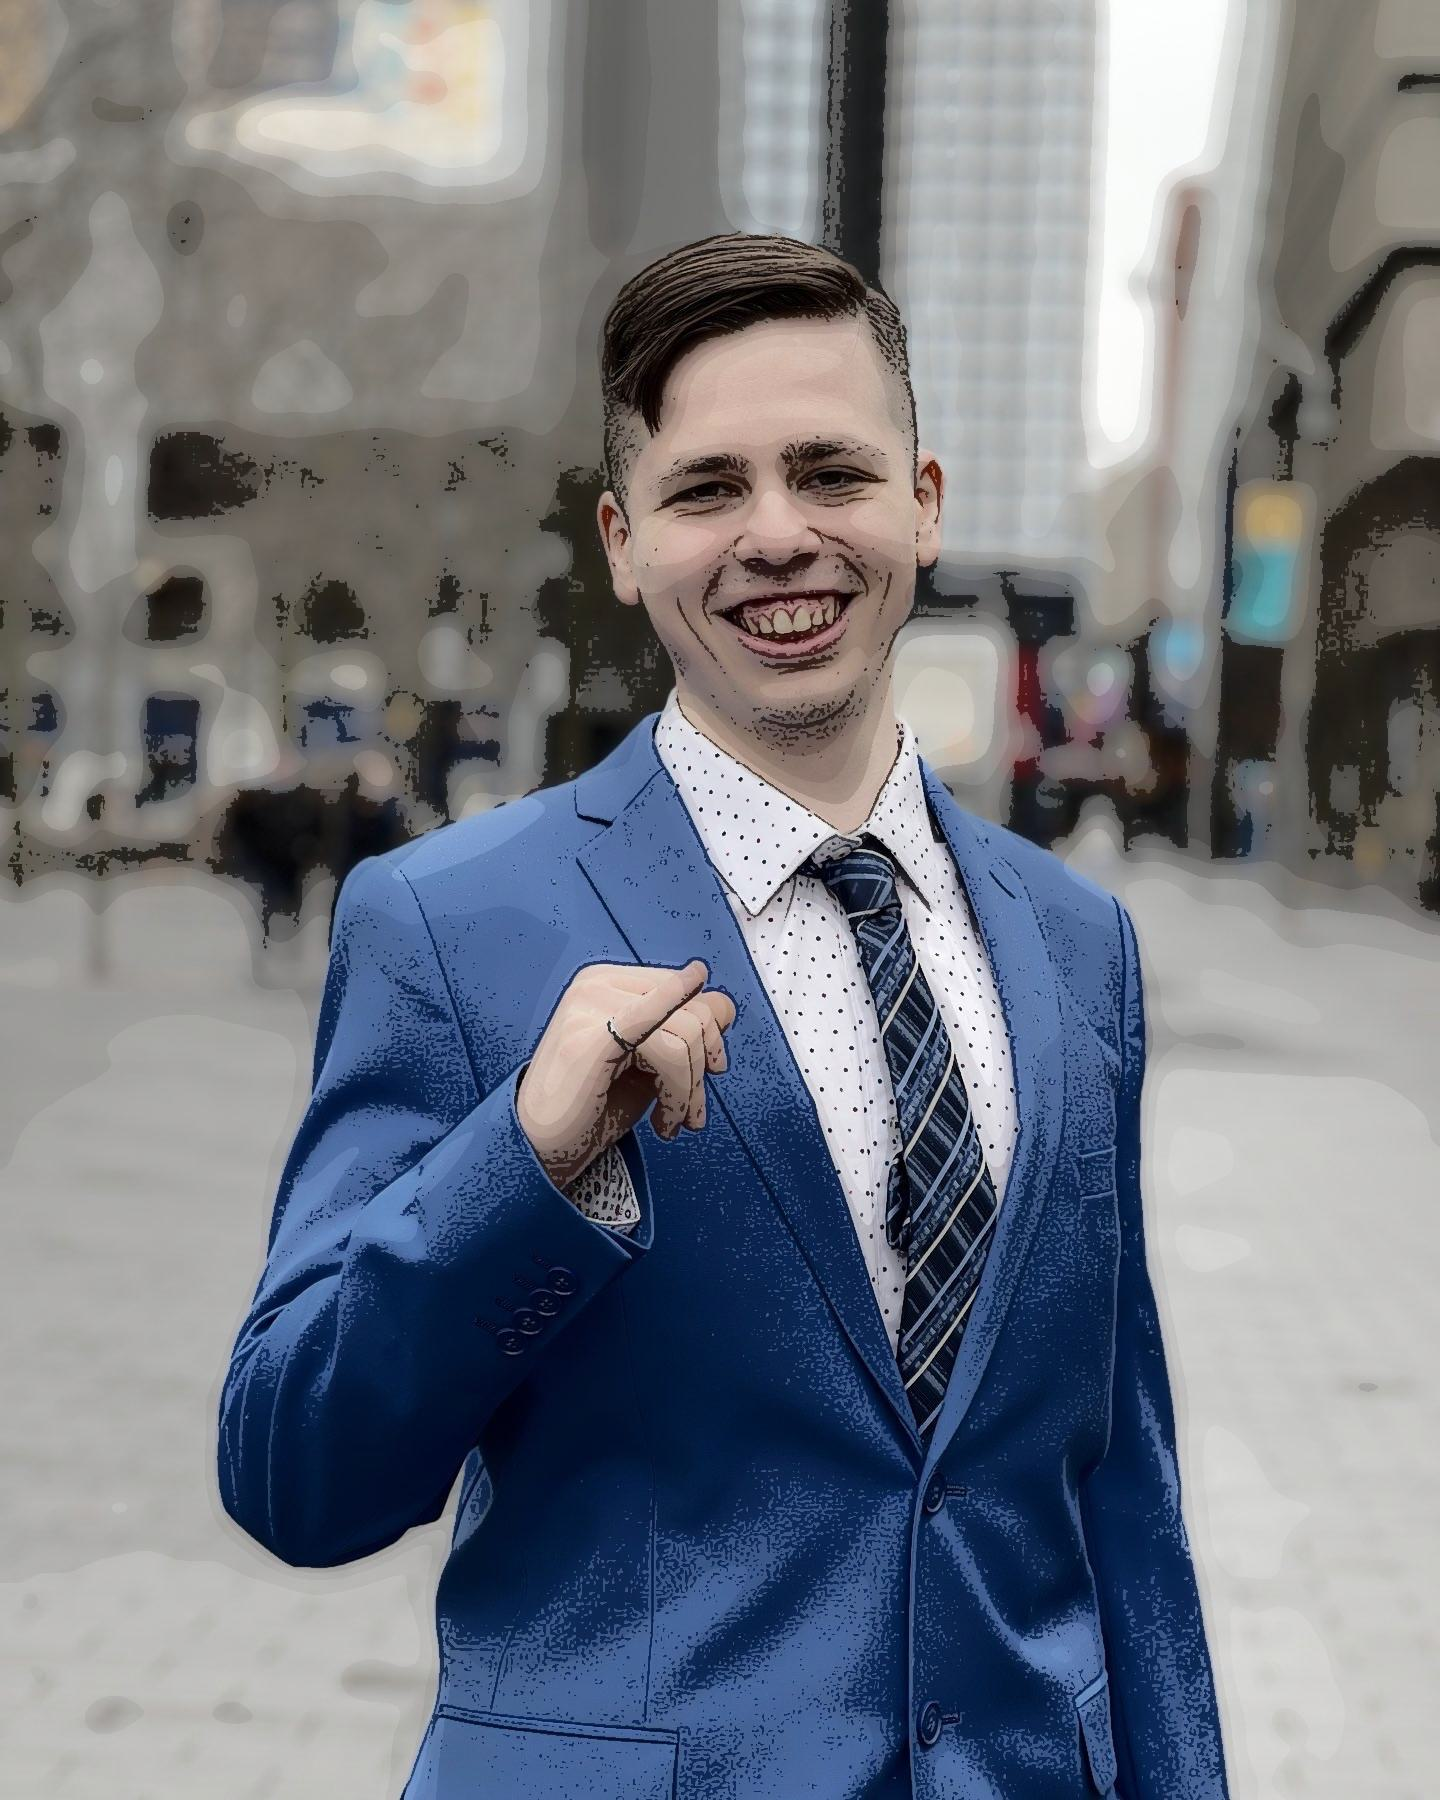
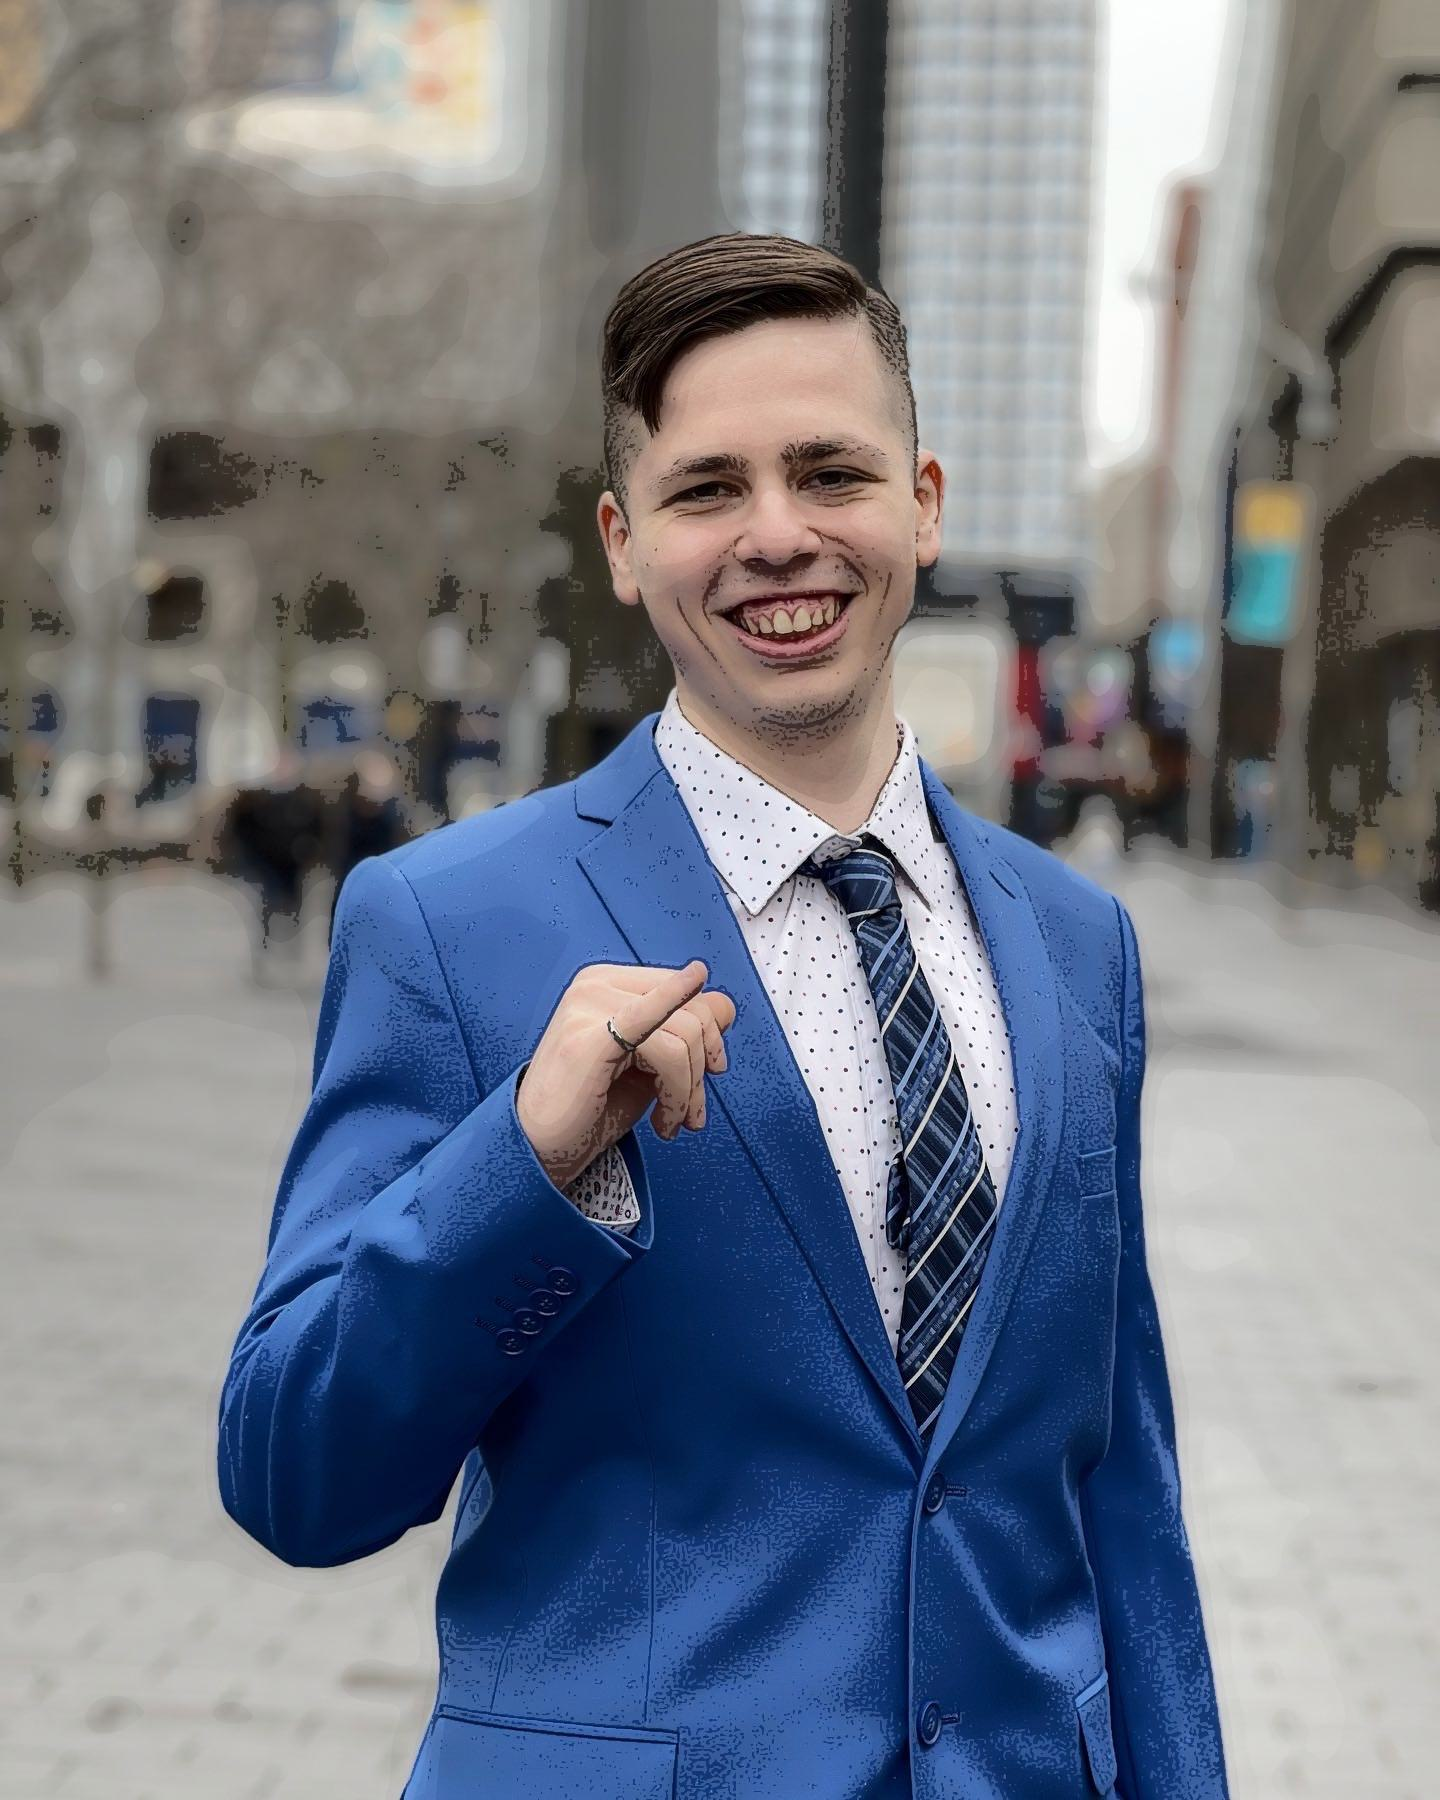
Added some contrast

diff --git a/cartoon_effect/c_effect.py b/cartoon_effect/c_effect.py
@@ -193,3 +193,215 @@ class CartoonImage:
         
 
         return self._LineCleanup(I_xDoG)
+    
+    def _adjust_contrast(self, scale, hist):
+        '''Generate a LUT to adjust contrast without affecting brightness.
+
+        Parameters
+        ----------
+        scale : float
+            the value used to adjust the image contrast; a value greater than 1 will
+            increase constrast while a value less than 1 will reduce it
+        hist : numpy.ndarray
+            a 256-element array containing the image histogram, which is used to
+            calculate the image brightness
+
+        Returns
+        -------
+        numpy.ndarray
+            a 256-element LUT that can be provided to ``apply_lut()``
+
+        Raises
+        ------
+        ValueError
+            if the histogram is not 256-elements or if the scale is less than zero
+        '''
+
+        if(len(hist) != 256 or scale < 0):
+            return ValueError("Error histogram is not 256 elements or scale is less than zero")
+
+        brightness = 0
+        total = 0
+
+        for i in range(len(hist)):
+            brightness = brightness + (i * hist[i])
+            total = total + hist[i]
+
+        brightness = brightness // total
+
+        lut = np.arange(0, 256, 1)
+
+        for i in range(len(lut)):
+            newVal = (scale * i) + ((1-scale) * brightness)
+            if(newVal > 255):
+                newVal = 255
+
+            if(newVal < 0):
+                newVal = 0
+
+            lut[i] = newVal
+
+        return lut.astype(np.uint8)
+
+    def _apply_lut(self, img, lut):
+        '''Apply a look-up table to an image.
+
+        The look-up table can be be used to quickly adjust the intensities within an
+        image.  For colour images, the same LUT can be applied equally to each
+        colour channel.
+
+        Parameters
+        ----------
+        img : numpy.ndarray
+            a ``H x W`` greyscale or ``H x W x C`` colour 8bpc image
+        lut : numpy.ndarray
+            a 256-element, 8-bit array
+
+        Returns
+        -------
+        numpy.ndarray
+            a new ``H x W`` or ``H x W x C`` image derived from applying the LUT
+
+        Raises
+        ------
+        ValueError
+            if the LUT is not 256-elements long
+        TypeError
+            if either the LUT or images are not 8bpc
+        '''
+        if(len(lut) != 256):
+            raise ValueError("Error! LUT is not 256-elements long")
+
+        if(img.dtype != np.uint8 or lut.dtype != np.uint8):
+            raise TypeError("Error! Can only support 8-bit images and LUTs!")
+
+        if(len(img.shape) >= 3):
+            height, width, colours = img.shape
+        else:
+            height, width = img.shape
+            colours = 1
+
+        pixelVals = img.astype(np.uint8)
+
+        if(len(img.shape) >= 3):
+            newImage = np.zeros((height, width, colours), dtype=np.uint8)
+        else:
+            newImage = np.zeros((height, width), dtype=np.uint8)
+
+        for row in range(len(pixelVals)):
+            for col in range(len(pixelVals[row])):
+                if(len(img.shape) < 3):
+                    greyVal = pixelVals[row][col]
+                    newVal = lut[greyVal]
+                    newImage[row][col] = newVal
+                else:
+                    R, G, B = pixelVals[row][col]
+                    newR = lut[R]
+                    newG = lut[G]
+                    newB = lut[B]
+                    newImage[row][col][0] = newR
+                    newImage[row][col][1] = newG
+                    newImage[row][col][2] = newB
+        return newImage
+    
+    def histogram(self, img):
+        '''Compute the histogram of an image.
+
+        This function can only support processing 8bpc images, greyscale or colour.
+        Colour images will produce three histograms (one per colour channel).
+
+        Parameters
+        ----------
+        img : numpy.ndarray
+            a ``H x W`` greyscale image
+
+        Returns
+        -------
+        numpy.ndarray
+            a 256-element, linear array containing the computed histogram
+
+        Raises
+        ------
+        ValueError
+            if the image isn't greyscale
+        TypeError
+            if the image isn't the ``numpy.uint8`` data type
+        '''
+        if(len(img.shape) >= 3):
+            raise ValueError("Error! This is not a greyscale image")
+
+        if(img.dtype != np.uint8):
+            raise TypeError("Error! This image is not a numpy.uint8 data type")
+
+        hist = np.zeros(256)
+        pixelVals = img.astype(np.uint8)
+
+        for row in range(len(pixelVals)):
+            for col in range(len(pixelVals[row])):
+                pixelVal = pixelVals[row][col]
+                hist[pixelVal] = hist[pixelVal] + 1
+
+        return hist
+
+    def adjust_exposure(self, gamma):
+        '''Generate a LUT that applies a power-law transform to an image.
+
+        Parameters
+        ----------
+        gamma : float
+            the exponent in the power-law transform; must be a positive value
+
+        Returns
+        -------
+        numpy.ndarray
+            a 256-element LUT that can be provided to ``apply_lut()``
+
+        Raises
+        ------
+        ValueError
+            if ``gamma`` is negative
+        '''
+        if(gamma < 0.0):
+            raise ValueError("Gamma is a negative value")
+
+        lut = np.arange(0, 256, 1, dtype=np.uint8)
+
+        for i in range(len(lut)):
+            percentVal = i/255
+            newVal = math.pow(percentVal, gamma) * 255
+
+            if(newVal > 255):
+                newVal = 255
+
+            if(newVal < 0):
+                newVal = 0
+
+            lut[i] = newVal
+        print(lut)
+        return lut
+
+    def adjust_brightness(self, offset):
+        '''Generate a LUT to adjust the image brightness.
+
+        Parameters
+        ----------
+        offset : int
+            the amount to offset brightness values by; this may be negative or
+            positive
+
+        Returns
+        -------
+        numpy.ndarray
+            a 256-element LUT that can be provided to ``apply_lut()``
+        '''
+        lut = np.arange(0, 256, 1)
+
+        for i in range(len(lut)):
+            newVal = i + offset
+            if(newVal > 255):
+                newVal = 255
+            if(newVal < 0):
+                newVal = 0
+            lut[i] = newVal
+
+        return lut.astype(np.uint8)

diff --git a/make_cartoon.py b/make_cartoon.py
@@ -48,8 +48,8 @@ if __name__ == "__main__":
     
     image = imread(inputP)
     
-
-    imgWithEffect = CartoonImage(image, meanXDoG, pXDoG, threshold, blurring, levels).applyEffect()
+    effect = CartoonImage(image, meanXDoG, pXDoG, threshold, blurring, levels)
+    imgWithEffect = effect.applyEffect()
     
     if(image.ndim == 3):
         rgbSetup = gray2rgb(imgWithEffect)
@@ -57,9 +57,14 @@ if __name__ == "__main__":
         for row in range(len(rgbSetup)):
             for col in range(len(rgbSetup[row])):
                 for colour in range(len(rgbSetup[row][col])):
-                    rgbSetup[row][col][colour] = rgbSetup[row][col][colour] + (image[row][col][colour])
+                    rgbSetup[row][col][colour] = rgbSetup[row][col][colour] + (image[row][col][colour] * 2)
         rgbSetup = (rgbSetup/rgbSetup.max()) * 255
-        imsave(outputP, rgbSetup)
+        rgbHist = effect.histogram(imgWithEffect.astype(np.uint8))
+        
+        lut = effect._adjust_contrast(1.4, rgbHist)
+        
+        testWithContrast = effect._apply_lut(rgbSetup.astype(np.uint8), lut)
+        imsave(outputP, testWithContrast)
         
     else:
         outGreyImg = np.copy(image)
